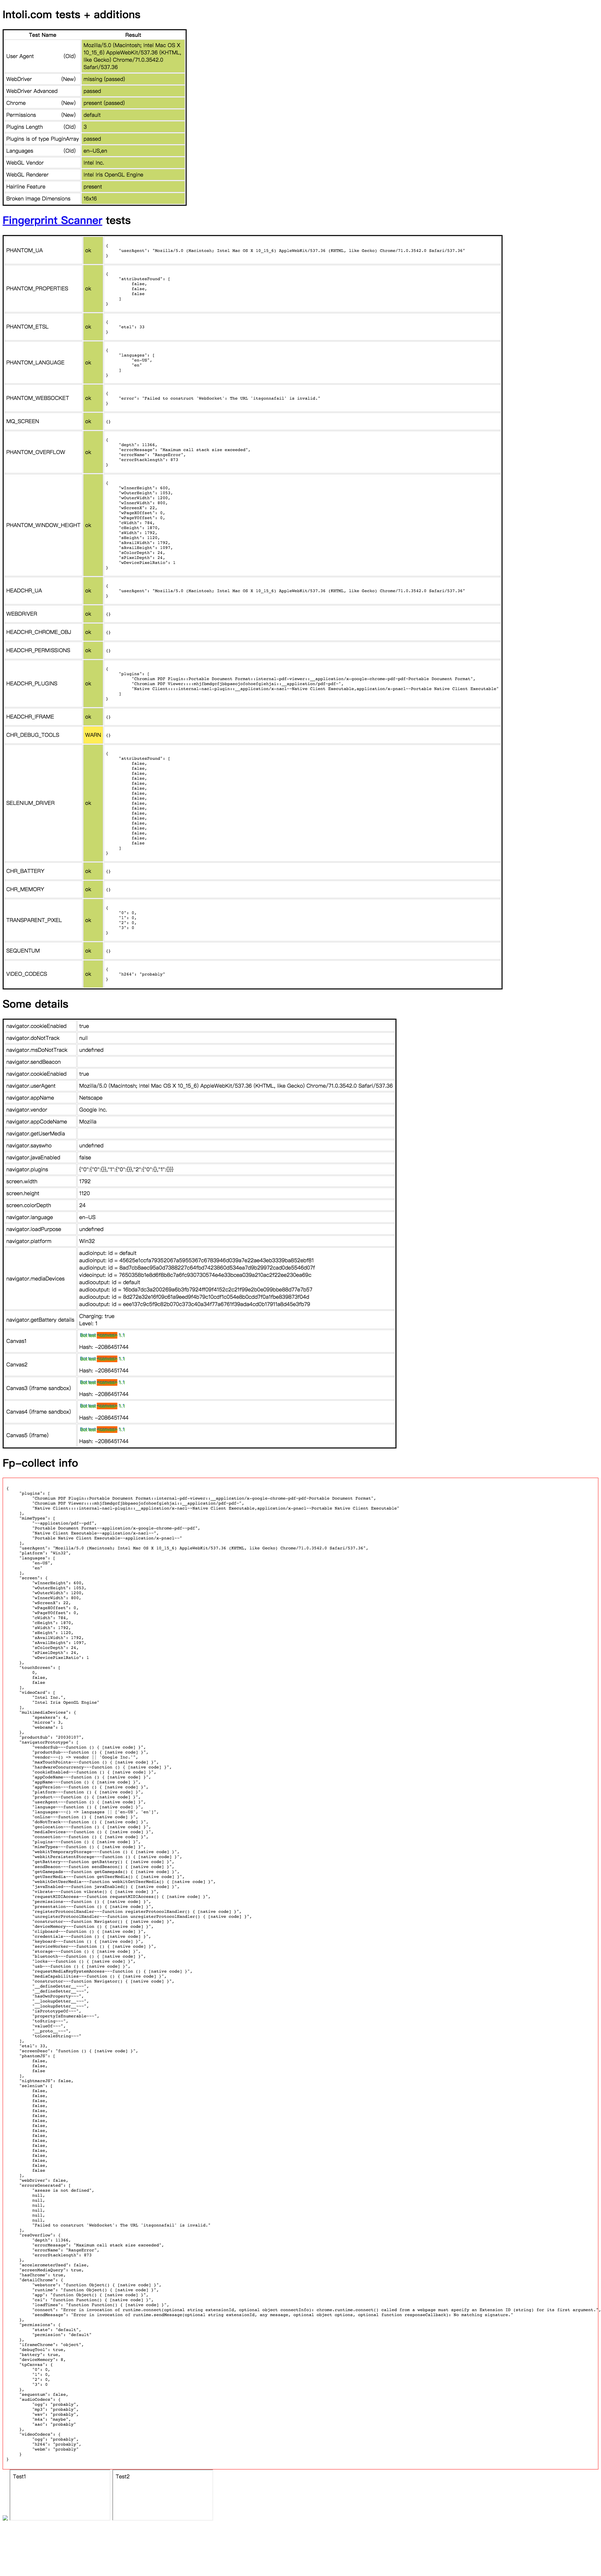
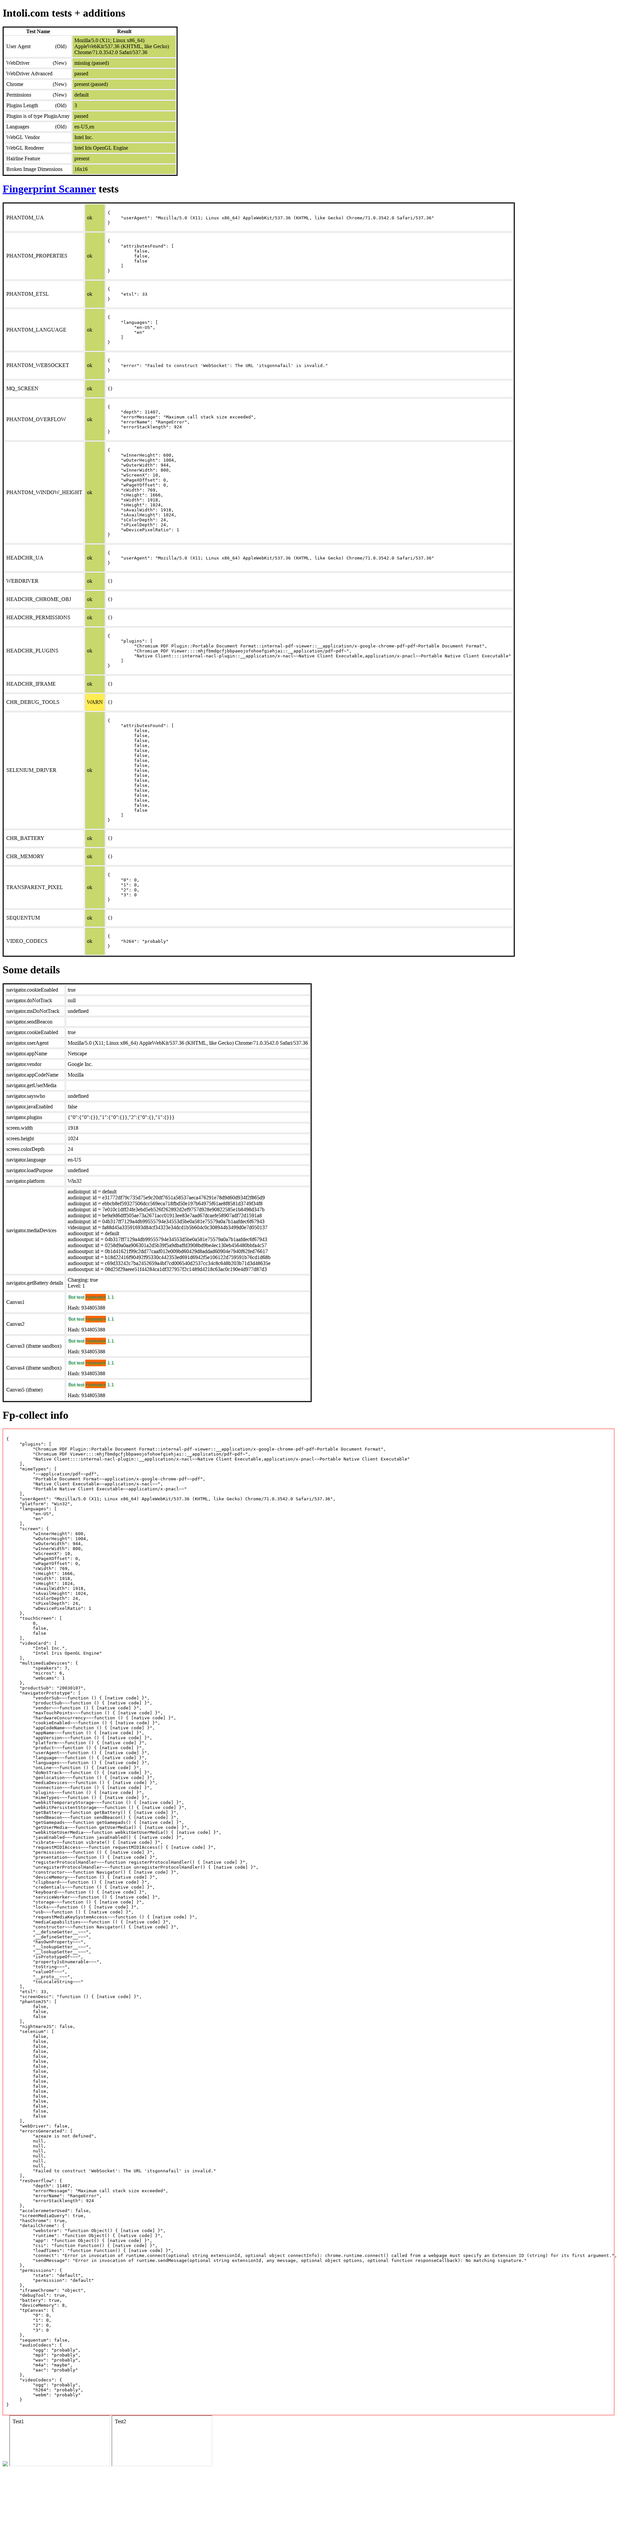
Improve navigator patching

diff --git a/pyppeteer_stealth/js/utils.js b/pyppeteer_stealth/js/utils.js
@@ -135,6 +135,9 @@
    * For a determined enough observer it would be possible to overwrite and sniff usage of functions
    * we use in our internal Proxies, to combat that we use a cached copy of those functions.
    *
+   * Note: Whenever we add a `Function.prototype.toString` proxy we should preload the cache before,
+   * by executing `utils.preloadCache()` before the proxy is applied (so we don't cause recursive lookups).
+   *
    * This is evaluated once per execution context (e.g. window)
    */
   utils.preloadCache = () => {
@@ -161,17 +164,12 @@
    * The only advantage we have over the other team is that our JS runs first, hence we cache the result
    * of the native toString result once, so they cannot spoof it afterwards and reveal that we're using it.
    *
-   * Note: Whenever we add a `Function.prototype.toString` proxy we should preload the cache before,
-   * by executing `utils.preloadCache()` before the proxy is applied (so we don't cause recursive lookups).
-   *
    * @example
    * makeNativeString('foobar') // => `function foobar() { [native code] }`
    *
    * @param {string} [name] - Optional function name
    */
   utils.makeNativeString = (name = '') => {
-    // Cache (per-window) the original native toString or use that if available
-    utils.preloadCache()
     return utils.cache.nativeToStringStr.replace('toString', name || '')
   }
 
@@ -190,9 +188,7 @@
    * @param {string} str - Optional string used as a return value
    */
   utils.patchToString = (obj, str = '') => {
-    utils.preloadCache()
-
-    const toStringProxy = new Proxy(Function.prototype.toString, {
+    const handler = {
       apply: function (target, ctx) {
         // This fixes e.g. `HTMLMediaElement.prototype.canPlayType.toString + ""`
         if (ctx === Function.prototype.toString) {
@@ -214,7 +210,12 @@
         }
         return target.call(ctx)
       }
-    })
+    }
+
+    const toStringProxy = new Proxy(
+      Function.prototype.toString,
+      utils.stripProxyFromErrors(handler)
+    )
     utils.replaceProperty(Function.prototype, 'toString', {
       value: toStringProxy
     })
@@ -236,9 +237,7 @@
    * @param {object} originalObj - The object which toString result we wan to return
    */
   utils.redirectToString = (proxyObj, originalObj) => {
-    utils.preloadCache()
-
-    const toStringProxy = new Proxy(Function.prototype.toString, {
+    const handler = {
       apply: function (target, ctx) {
         // This fixes e.g. `HTMLMediaElement.prototype.canPlayType.toString + ""`
         if (ctx === Function.prototype.toString) {
@@ -268,7 +267,12 @@
 
         return target.call(ctx)
       }
-    })
+    }
+
+    const toStringProxy = new Proxy(
+      Function.prototype.toString,
+      utils.stripProxyFromErrors(handler)
+    )
     utils.replaceProperty(Function.prototype, 'toString', {
       value: toStringProxy
     })
@@ -288,12 +292,31 @@
    * @param {object} handler - The JS Proxy handler to use
    */
   utils.replaceWithProxy = (obj, propName, handler) => {
-    utils.preloadCache()
     const originalObj = obj[propName]
     const proxyObj = new Proxy(obj[propName], utils.stripProxyFromErrors(handler))
 
     utils.replaceProperty(obj, propName, { value: proxyObj })
     utils.redirectToString(proxyObj, originalObj)
+
+    return true
+  }
+  /**
+   * All-in-one method to replace a getter with a JS Proxy using the provided Proxy handler with traps.
+   *
+   * @example
+   * replaceGetterWithProxy(Object.getPrototypeOf(navigator), 'vendor', proxyHandler)
+   *
+   * @param {object} obj - The object which has the property to replace
+   * @param {string} propName - The name of the property to replace
+   * @param {object} handler - The JS Proxy handler to use
+   */
+  utils.replaceGetterWithProxy = (obj, propName, handler) => {
+    const fn = Object.getOwnPropertyDescriptor(obj, propName).get
+    const fnStr = fn.toString() // special getter function string
+    const proxyObj = new Proxy(fn, utils.stripProxyFromErrors(handler))
+
+    utils.replaceProperty(obj, propName, { get: proxyObj })
+    utils.patchToString(proxyObj, fnStr)
 
     return true
   }
@@ -312,7 +335,6 @@
    * @param {object} handler - The JS Proxy handler to use
    */
   utils.mockWithProxy = (obj, propName, pseudoTarget, handler) => {
-    utils.preloadCache()
     const proxyObj = new Proxy(pseudoTarget, utils.stripProxyFromErrors(handler))
 
     utils.replaceProperty(obj, propName, { value: proxyObj })
@@ -335,7 +357,6 @@
    * @param {object} handler - The JS Proxy handler to use
    */
   utils.createProxy = (pseudoTarget, handler) => {
-    utils.preloadCache()
     const proxyObj = new Proxy(pseudoTarget, utils.stripProxyFromErrors(handler))
     utils.patchToString(proxyObj)
 
@@ -353,10 +374,7 @@
    */
   utils.splitObjPath = objPath => ({
     // Remove last dot entry (property) ==> `HTMLMediaElement.prototype`
-    objName: objPath
-      .split('.')
-      .slice(0, -1)
-      .join('.'),
+    objName: objPath.split('.').slice(0, -1).join('.'),
     // Extract last dot entry ==> `canPlayType`
     propName: objPath.split('.').slice(-1)[0]
   })
@@ -452,6 +470,23 @@
       })
     )
   }
+
+  // Proxy handler templates for re-usability
+  utils.makeHandler = () => ({
+    // Used by simple `navigator` getter evasions
+    getterValue: value => ({
+      apply(target, ctx, args) {
+        // Let's fetch the value first, to trigger and escalate potential errors
+        // Illegal invocations like `navigator.__proto__.vendor` will throw here
+        const ret = utils.cache.Reflect.apply(...arguments)
+        if (args && args.length === 0) {
+          return value
+        }
+        return ret
+      }
+
+    })
+  })
 
   utils.preloadCache()
 }

diff --git a/pyppeteer_stealth/js/navigator.hardwareConcurrency.js b/pyppeteer_stealth/js/navigator.hardwareConcurrency.js
@@ -1,12 +1,10 @@
 // https://github.com/berstend/puppeteer-extra/blob/3ea4ebca4237bb45ce402ba6a44d852e3499cb5f/packages/puppeteer-extra-plugin-stealth/evasions/navigator.hardwareConcurrency/index.js
 
 (hardwareConcurrency) => {
-    const patchNavigator = (name, value) =>
-        utils.replaceProperty(Object.getPrototypeOf(navigator), name, {
-            get() {
-                return value
-            }
-        })
-    patchNavigator('hardwareConcurrency', hardwareConcurrency || 4)
+    utils.replaceGetterWithProxy(
+        Object.getPrototypeOf(navigator),
+        'hardwareConcurrency',
+        utils.makeHandler().getterValue(hardwareConcurrency)
+      )
 }
     

diff --git a/pyppeteer_stealth/js/navigator.plugins.js b/pyppeteer_stealth/js/navigator.plugins.js
@@ -269,7 +269,10 @@
         configurable: true
       })
       Object.defineProperty(mimeTypes[type], 'enabledPlugin', {
-        value: new Proxy(plugins[pluginData.name], {}), // Prevent circular references
+        value: 
+          type === 'application/x-pnacl'
+            ? mimeTypes['application/x-nacl'].enabledPlugin // these reference the same plugin, so we need to re-use the Proxy in order to avoid leaks
+            : new Proxy(plugins[pluginData.name], {}), // Prevent circular references
         writable: false,
         enumerable: false, // Important: `JSON.stringify(navigator.plugins)`
         configurable: true

diff --git a/pyppeteer_stealth/js/navigator.languages.js b/pyppeteer_stealth/js/navigator.languages.js
@@ -2,7 +2,12 @@
 
 (languages) => {
   // Overwrite the `languages` property to use a custom getter.
-  Object.defineProperty(Object.getPrototypeOf(navigator), 'languages', {
-    get: () => languages || ['en-US', 'en']
-  })
+  const languages_to_pass = languages.length
+    ? languages
+    : ['en-US', 'en']
+  utils.replaceGetterWithProxy(
+    Object.getPrototypeOf(navigator),
+    'languages',
+    utils.makeHandler().getterValue(Object.freeze([...languages_to_pass]))
+  )
 }

diff --git a/pyppeteer_stealth/js/navigator.vendor.js b/pyppeteer_stealth/js/navigator.vendor.js
@@ -2,7 +2,9 @@
 
 vendor => {
   // Overwrite the `vendor` property to use a custom getter.
-  Object.defineProperty(Object.getPrototypeOf(navigator), 'vendor', {
-    get: () => vendor || 'Google Inc.'
-  })
+  utils.replaceGetterWithProxy(
+    Object.getPrototypeOf(navigator),
+    'vendor',
+    utils.makeHandler().getterValue(vendor)
+  )
 }
